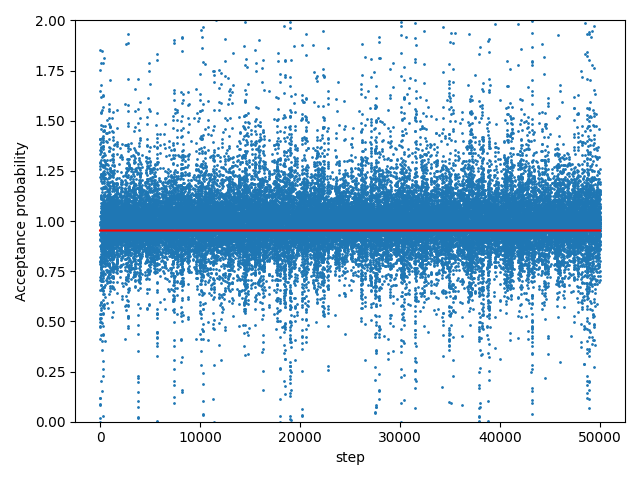
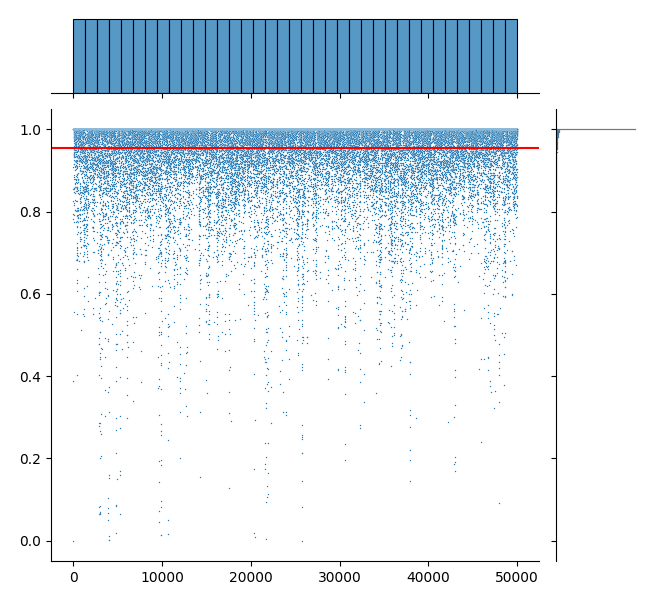
Change graphs of the acceptance ratio analysis

diff --git a/tests.py b/tests.py
@@ -2,6 +2,7 @@ import numpy as np
 import matplotlib.pyplot as plt
 
 import lib as lib
+import seaborn as sns
 
 
 def check_random_walker_1D(tm_sigma, prob_density=None, alpha=None, N_steps=50000):
@@ -31,24 +32,32 @@ def check_random_walker_1D(tm_sigma, prob_density=None, alpha=None, N_steps=5000
 
 	x_points, acceptance_probability, acceptance_ratio = lib.random_walker(prob_density, alpha, N_steps, np.zeros(1), tm_sigma)
 
-	plt.hist(x_points, bins=40, density=True)
+	#plt.hist(x_points, bins=40, density=True)
 	xmin, xmax = np.min(x_points), np.max(x_points)
 	x = np.linspace(xmin, xmax, 1000)
-	plt.plot(x, prob_density(x, alpha), "--")
-	plt.xlim(xmin, xmax)
-	plt.xlabel("r")
-	plt.ylabel("Probability density function")
-	plt.tight_layout()
-	plt.show()
+	# plt.plot(x, prob_density(x, alpha), "--")
+	# plt.xlim(xmin, xmax)
+	# plt.xlabel("r")
+	# plt.ylabel("Probability density function")
+	# plt.tight_layout()
+	# plt.show()
 
-	x = np.linspace(1, N_steps, N_steps)
-	print(x.shape, acceptance_probability.shape)
-	plt.scatter(x,acceptance_probability, s=1)
-	plt.plot(x,acceptance_ratio*np.ones(N_steps),'r')
-	plt.ylim(0, 2)
-	plt.xlabel("step")
-	plt.ylabel("Acceptance probability")
-	plt.tight_layout()
+	blabla = np.linspace(1, N_steps, N_steps)
+	#print(x.shape, acceptance_probability.shape)
+	# plt.scatter(blabla,acceptance_probability, s=1)
+	# plt.plot(blabla,acceptance_ratio*np.ones(N_steps),'r')
+	# plt.ylim(0, 1)
+	# plt.xlabel("step")
+	# plt.ylabel("Acceptance probability")
+	# plt.tight_layout()
+	# plt.show()
+
+	#data = np.array([x,acceptance_probability])
+
+	#plt.hist(acceptance_probability,bins=100, density = True)
+	#plt.show()
+	graph=sns.jointplot(x=blabla, y=acceptance_probability, s=1,hue_norm=(0,1))
+	graph.ax_joint.axhline(y=acceptance_ratio,c='r')
 	plt.show()
 	return
 
